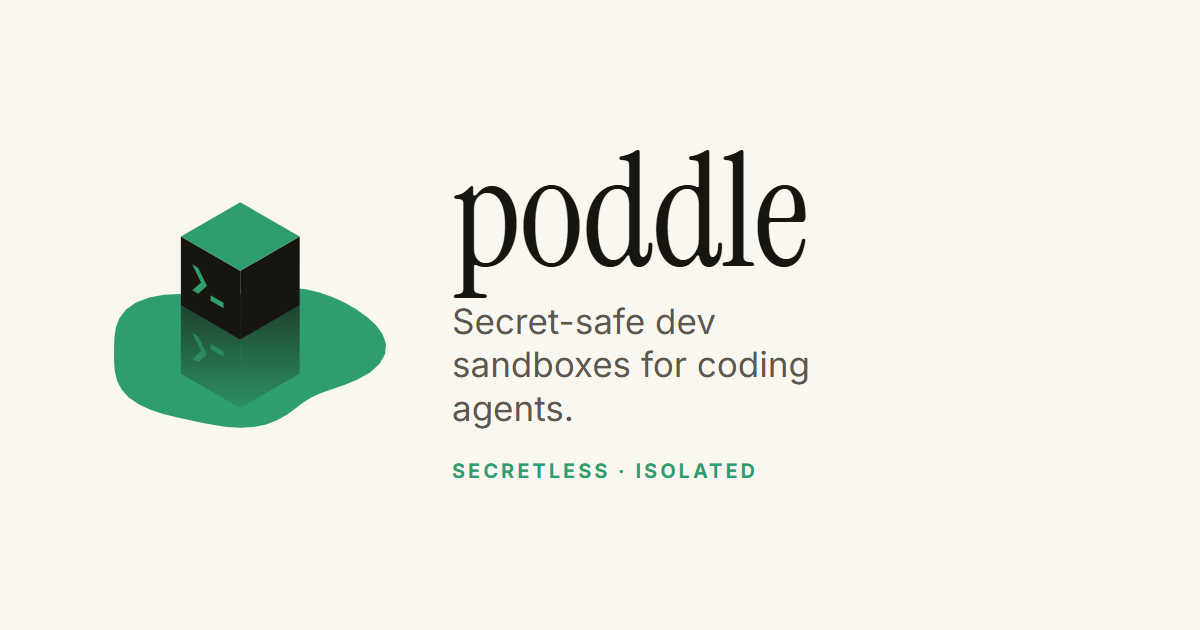
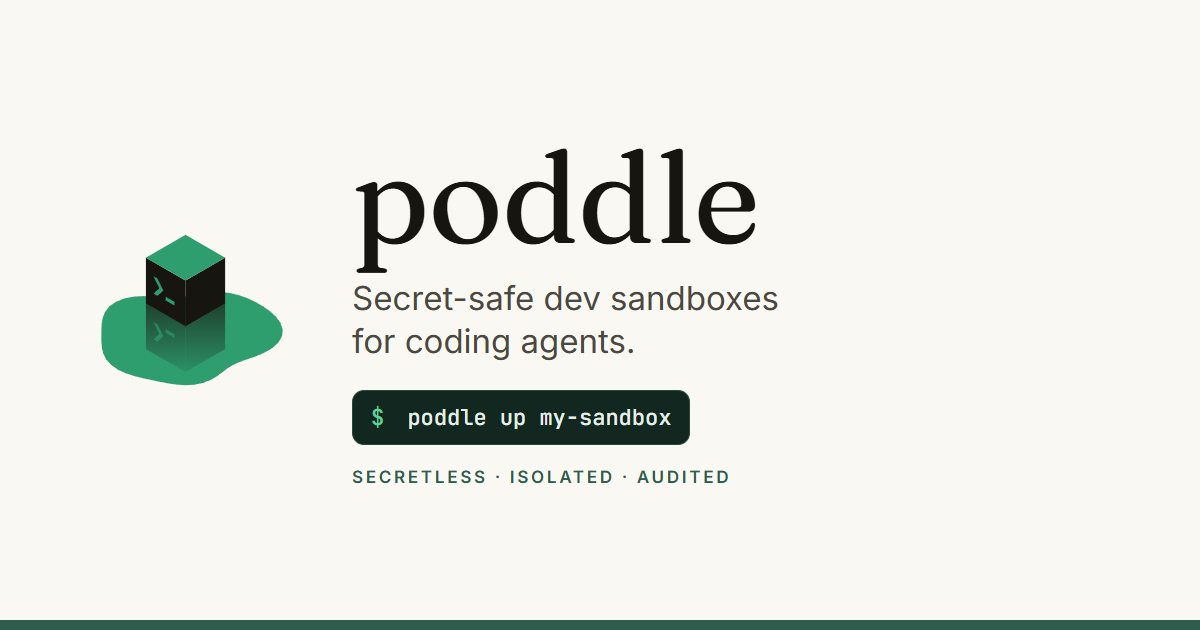
feat(site): lead the hero with a terminal, show the dashboard, calm the diagram
- Hero is now two-column: the editorial headline beside a real poddle terminal
  session, so the tool is visible above the fold.
- "How it works" is a click / arrow-key tabset again (dropped the 6.5s
  auto-rotation that read as marketing motion).
- Promote the terminal to one shared component used by the hero and the docs
  (a green ">_" prompt header, no macOS window buttons).
- New "Provable after the fact" section with a real dark audit-dashboard shot.
- Calm the broker/egress diagram: pod memory meters breathe slowly and the size
  pills crossfade, while the decorative provider-icon carousel is frozen.
- Refresh og.png to the Fraunces + terminal identity.
- Capitalize sentence-initial "poddle" to "Poddle" in prose; commands, labels,
  and the wordmark stay lowercase.

Changed region(s): [[0.0617, 0.2413, 0.6783, 0.7841], [0.0, 0.9651, 1.0, 1.0]]

diff --git a/src/web/site/src/styles/docs.css b/src/web/site/src/styles/docs.css
@@ -141,18 +141,9 @@ pre.has-copy .copy-btn { position: absolute; top: 7px; right: 7px; }
 .doc-more a { border: 1px solid var(--border); border-radius: 10px; padding: 0.55rem 0.95rem; text-decoration: none; color: var(--ink); font-size: 0.9rem; }
 .doc-more a:hover { border-color: var(--accent); color: var(--accent); }
 
-/* terminal window */
-.term { border-radius: 12px; overflow: hidden; border: 1px solid rgba(21, 20, 15, 0.12); box-shadow: 0 18px 50px -24px rgba(21, 20, 15, 0.5); margin: 0.9rem 0; }
-.term__bar { display: flex; align-items: center; gap: 0.5rem; padding: 0.62rem 0.85rem; background: #0f2a22; }
-.term__glyph { font-family: var(--font-mono, ui-monospace, monospace); font-weight: 700; font-size: 0.78rem; letter-spacing: 0.06em; color: #5fd39a; }
-.term__title { margin-left: 0.1rem; font: 500 0.72rem/1 var(--font-mono, ui-monospace, monospace); color: rgba(233, 228, 211, 0.66); }
-.term__body { margin: 0; background: #14342b; padding: 1rem 1.15rem; overflow-x: auto; font-family: var(--font-mono, ui-monospace, monospace); font-size: 0.82rem; line-height: 1.75; color: #cfe2d9; }
-.term__body code { font-family: inherit; background: none; padding: 0; }
-.term__body .cmd { color: #f2eede; }
-.term__body .cmd::before { content: "$ "; color: #5fd39a; }
-.term__body .out { color: #8fb0a4; }
-.term__body .cmt { color: #8ab6a2; }
-.term__body .ok { color: #6fe0a6; }
+/* terminal window - the component now lives in global.css (shared with the home
+   hero); docs only add vertical spacing around it. */
+.doc-main .term { margin: 0.9rem 0; }
 
 .code { background: #14342b; border-radius: 10px; padding: 0.7rem 1rem; overflow-x: auto; font-family: var(--font-mono, ui-monospace, monospace); font-size: 0.84rem; line-height: 1.6; color: #eae4d3; margin: 0.6rem 0; }
 .code code { font-family: inherit; background: none; padding: 0; }

diff --git a/src/web/site/src/styles/global.css b/src/web/site/src/styles/global.css
@@ -77,3 +77,17 @@ img { max-width: 100%; display: block; }
 .btn--primary:hover { background: var(--ink-strong); color: var(--bone); }
 .btn--ghost { background: transparent; color: var(--ink); border-color: var(--border); }
 .btn--ghost:hover { border-color: var(--ink); color: var(--ink); }
+
+/* Terminal - one shared component for the home hero and the docs pages. A `>_`
+   prompt glyph and a shell title, never macOS window buttons. */
+.term { border-radius: 12px; overflow: hidden; border: 1px solid rgba(21, 20, 15, 0.12); box-shadow: 0 18px 50px -24px rgba(21, 20, 15, 0.5); }
+.term__bar { display: flex; align-items: center; gap: 0.5rem; padding: 0.62rem 0.85rem; background: #0f2a22; }
+.term__glyph { font-family: var(--mono); font-weight: 700; font-size: 0.78rem; letter-spacing: 0.06em; color: #5fd39a; }
+.term__title { margin-left: 0.1rem; font: 500 0.72rem/1 var(--mono); color: rgba(233, 228, 211, 0.66); }
+.term__body { margin: 0; background: #14342b; padding: 1rem 1.15rem; overflow-x: auto; font-family: var(--mono); font-size: 0.82rem; line-height: 1.75; color: #cfe2d9; }
+.term__body code { font-family: inherit; background: none; padding: 0; }
+.term__body .cmd { color: #f2eede; }
+.term__body .cmd::before { content: "$ "; color: #5fd39a; }
+.term__body .out { color: #8fb0a4; }
+.term__body .cmt { color: #8ab6a2; }
+.term__body .ok { color: #6fe0a6; }

diff --git a/src/web/site/src/pages/llms.txt.ts b/src/web/site/src/pages/llms.txt.ts
@@ -10,7 +10,7 @@ export const GET: APIRoute = ({ site }) => {
 
   const body = `# poddle
 
-> Secret-safe dev sandboxes for coding agents. poddle is a secretless credential broker: a pod holds only a revocable \`poddle_…\` handle, and the broker injects the real key on the wire while scrubbing stray secrets from outbound request bodies - so the raw secret never lands in the pod.
+> Secret-safe dev sandboxes for coding agents. Poddle is a secretless credential broker: a pod holds only a revocable \`poddle_…\` handle, and the broker injects the real key on the wire while scrubbing stray secrets from outbound request bodies - so the raw secret never lands in the pod.
 
 ## Docs
 ${[
